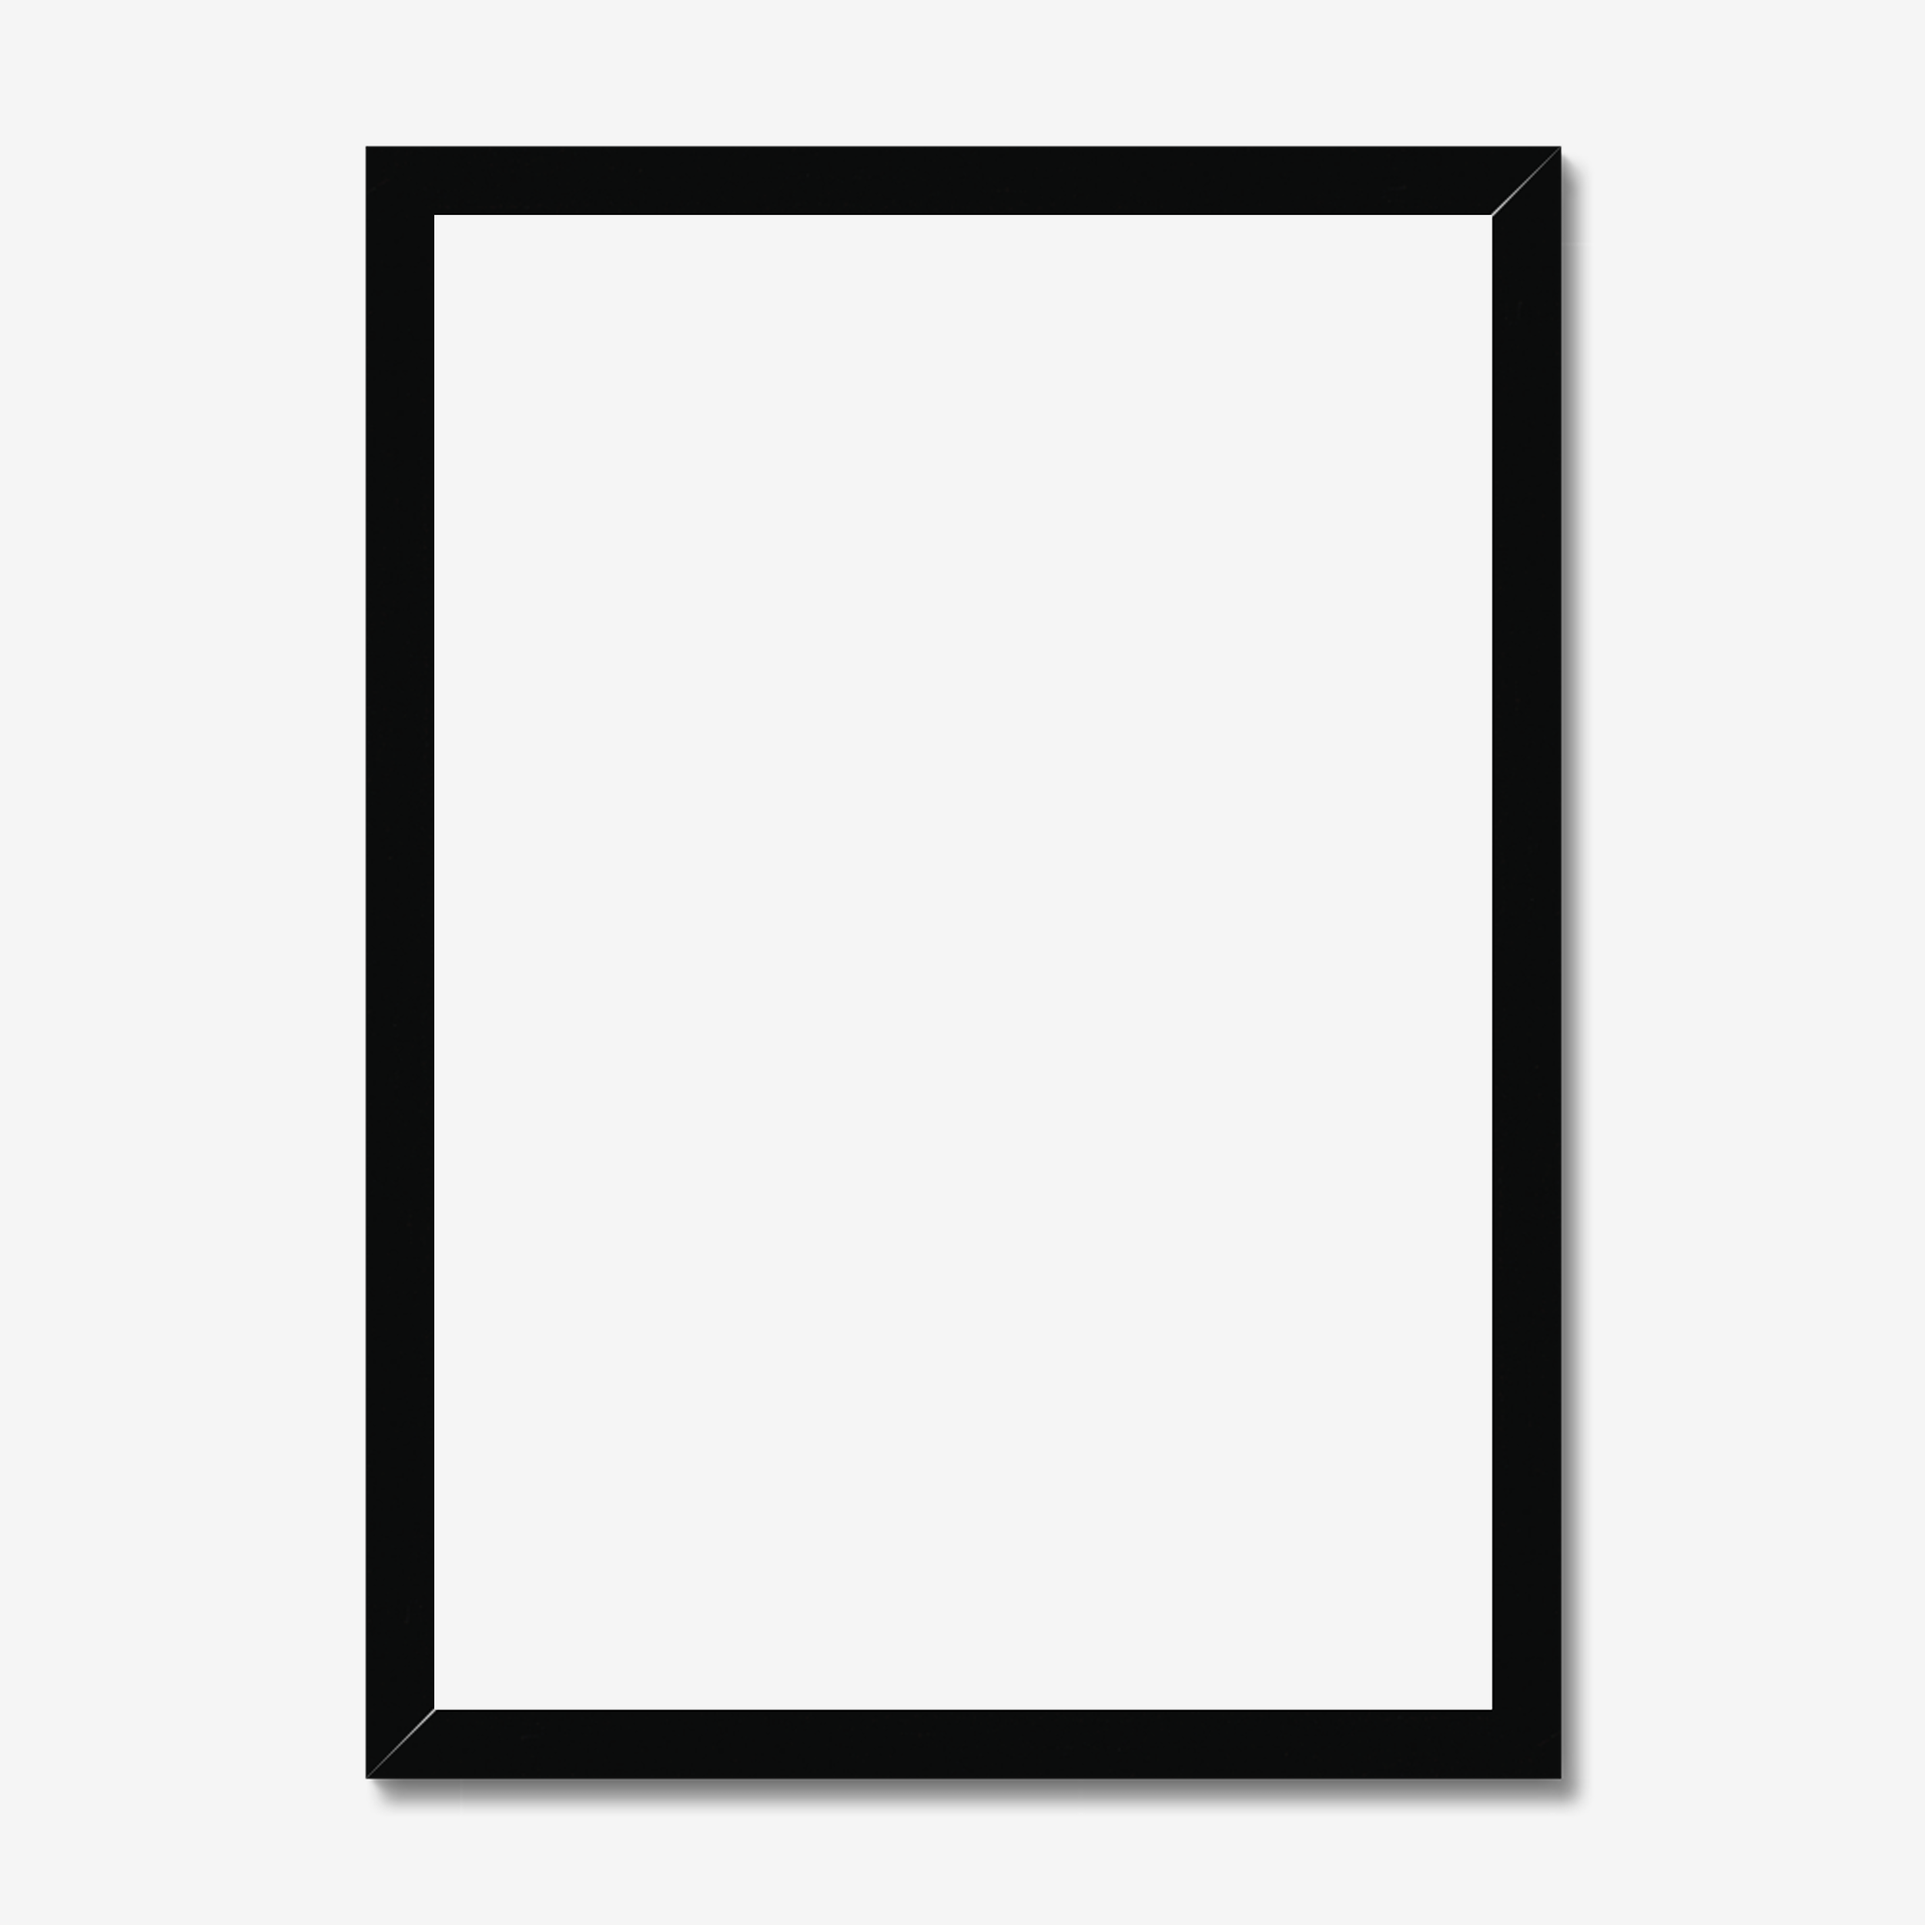
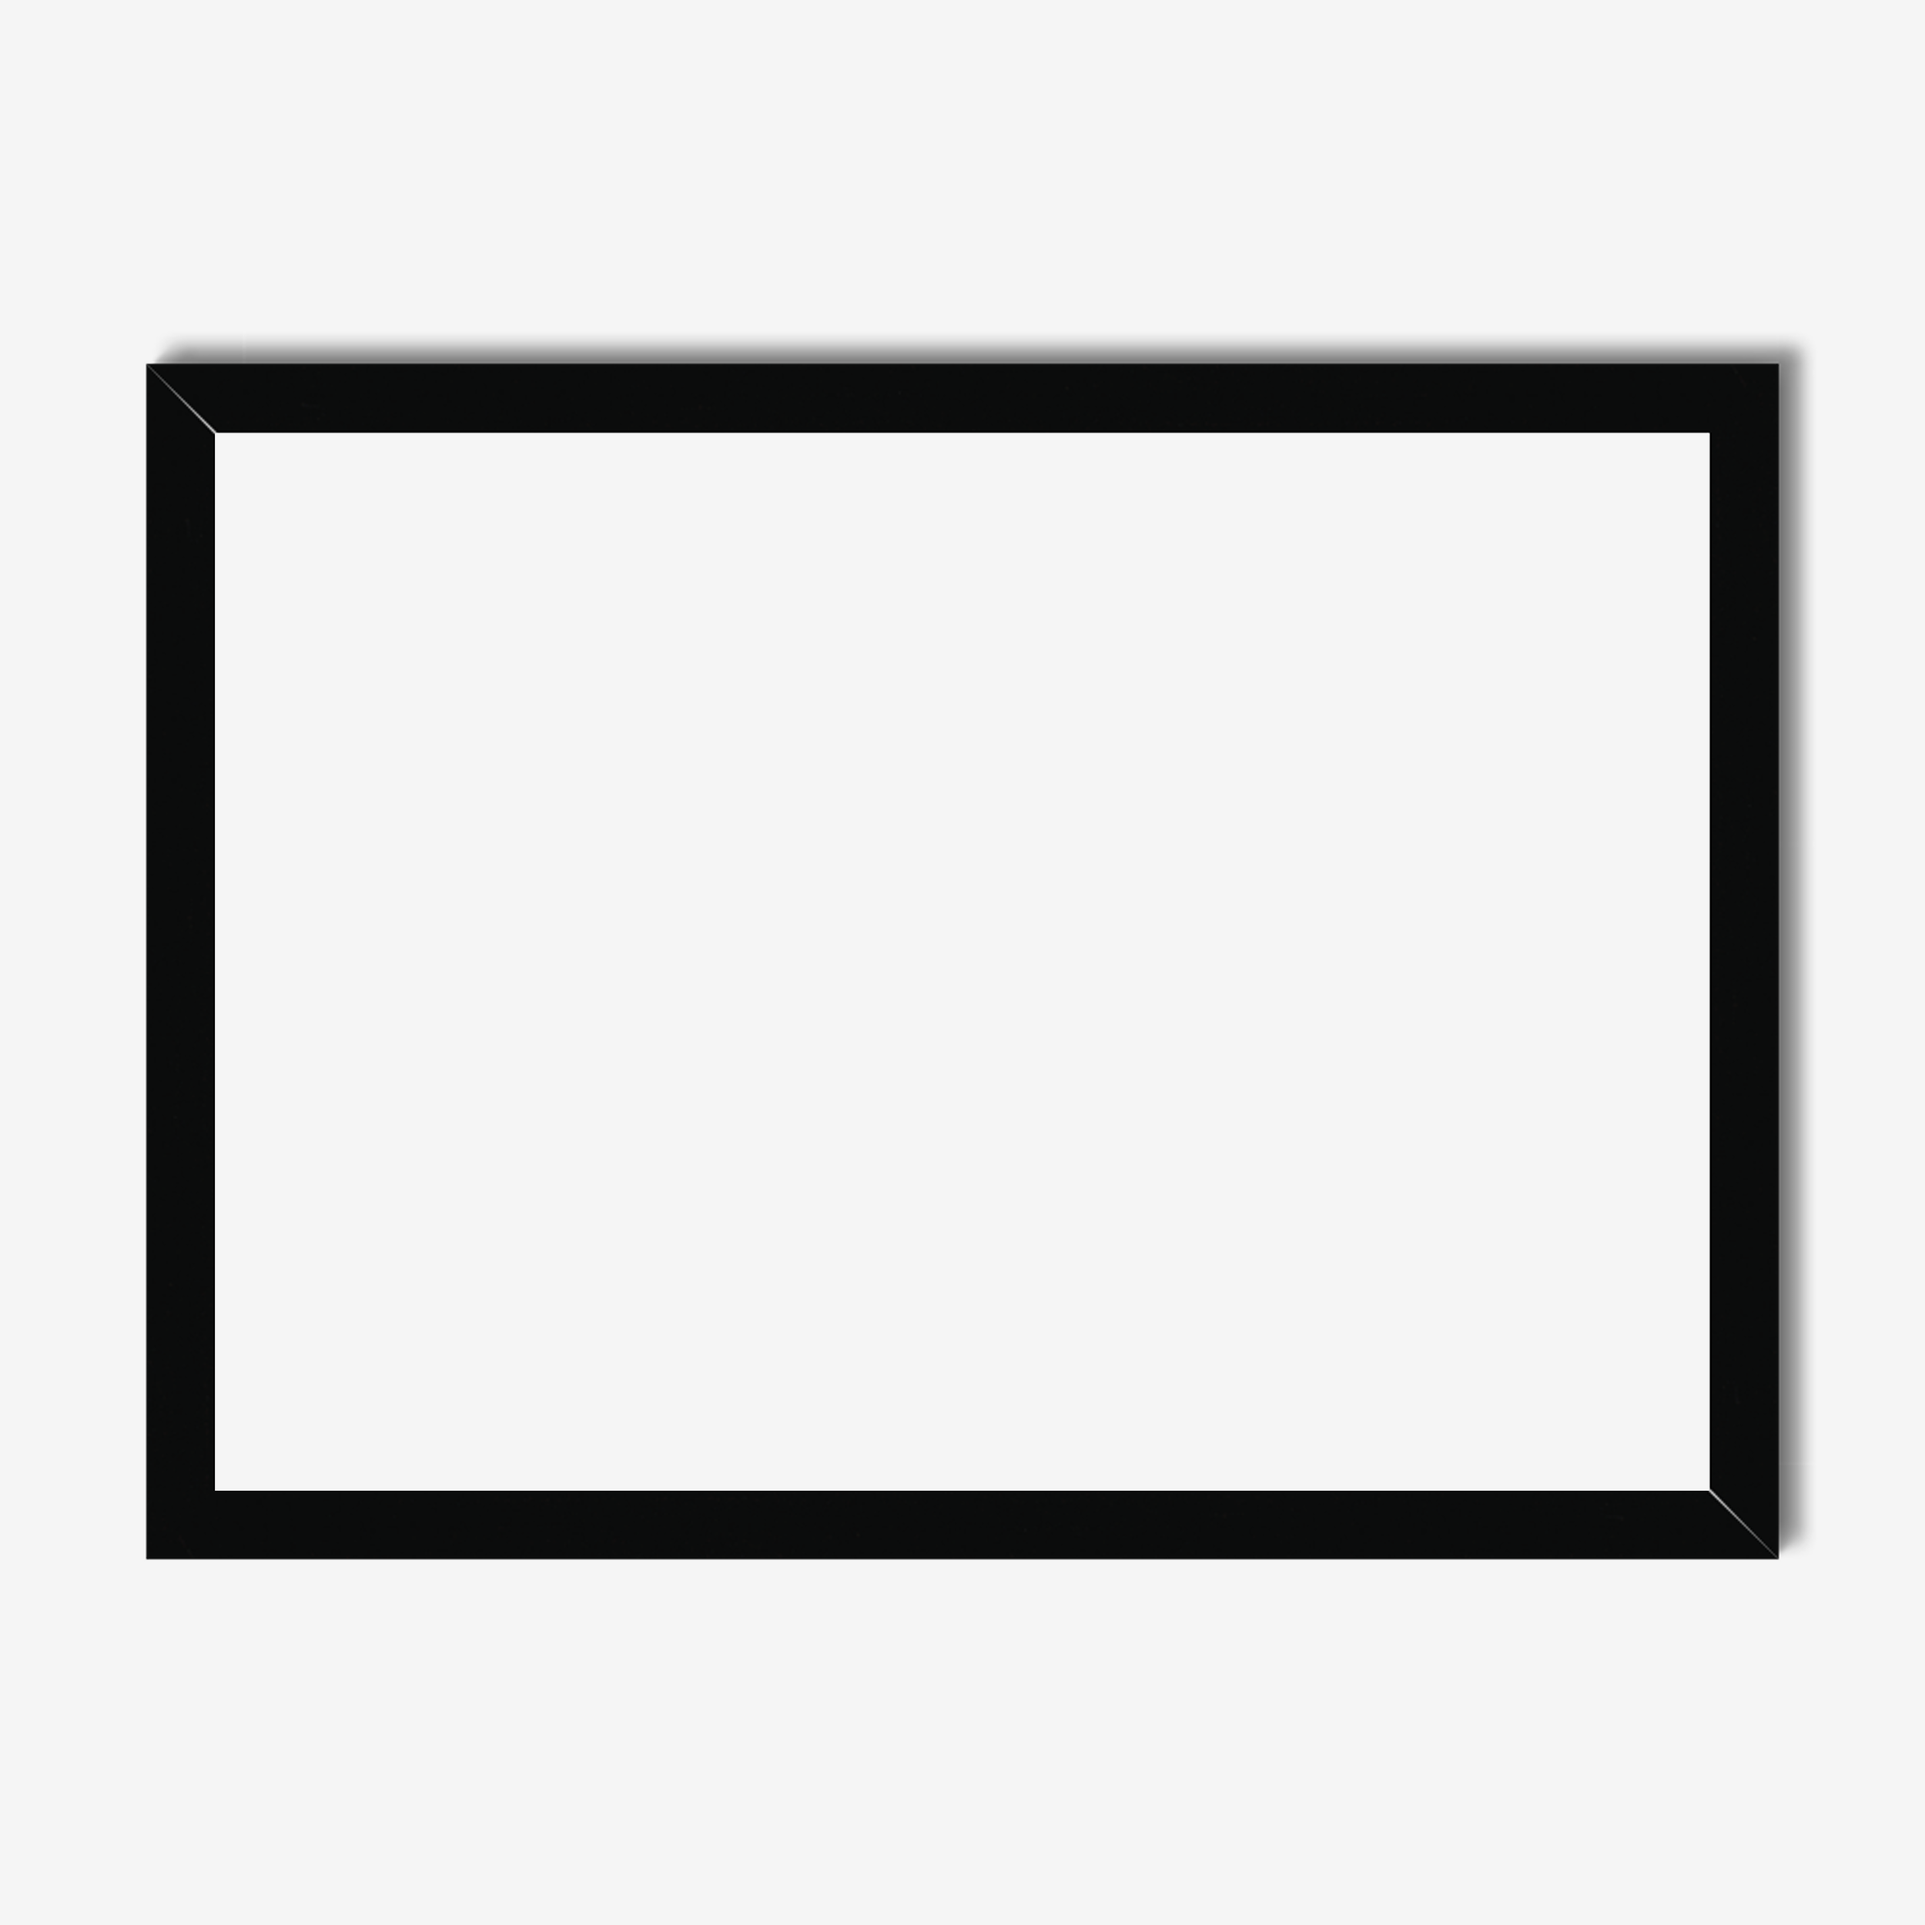
fix: spacing after VAT note + dynamic description per paper/frame type
- Add margin-bottom to .modal-price-note (space before ADD TO SELECTION)
- Add margin-top to .modal-desc-text (space after ADD TO SELECTION)
- Description now updates dynamically based on selected paper or frame type
  (Hahnemühle / Lustre for prints, frame-specific text for framed)
- collectif.html: full parity with index.html for all above
- Include corrected Black classic frame template + updated box frame images

Changed region(s): [[0.0624, 0.0624, 0.936, 0.936]]

diff --git a/index.html b/index.html
@@ -716,6 +716,7 @@
       font-size: 11px;
       color: var(--muted);
       margin-top: 3px;
+      margin-bottom: 20px;
     }
 
     /* Add btn */
@@ -740,6 +741,7 @@
       font-size: 12px;
       line-height: 1.85;
       color: var(--muted);
+      margin-top: 20px;
     }
 
     /* ── CART DRAWER ── */
@@ -1536,7 +1538,6 @@ function openModal(id) {
   document.getElementById('roomImg2').src = cur.img;
   setModalView();
   document.getElementById('mTitle').textContent = cur.name;
-  document.getElementById('mDesc').textContent = cur.desc;
   setFmt('print', true);
   renderSizes();
   updatePrice();
@@ -1578,6 +1579,7 @@ function setFmt(f, silent) {
   }
   if (!silent) updatePrice();
   updateImgNav();
+  updateDesc();
 }
 function openImgZoom() {
   // When framed is selected, zoom shows the server-rendered framed mockup
@@ -1613,6 +1615,7 @@ function setPaper(p) {
   };
   document.getElementById('paperDesc').textContent = descs[p] || '';
   syncFramePaperButtons();
+  updateDesc();
 }
 function syncFramePaperButtons() {
   const descs = {
@@ -1627,6 +1630,21 @@ function syncFramePaperButtons() {
   if (fpd)  fpd.textContent = descs[paperType] || '';
 }
 function setFramePaper(p) { setPaper(p); }
+
+// Dynamic print/frame description — updates whenever paper or frame selection changes
+const _PRINT_DESCS = {
+  hpr: 'Giclée print on Hahnemühle Photo Rag 308gsm. Cotton rag · Matte · Archival inks, rated 100+ years.',
+  pap: 'Giclée print on Lustre Photo Paper 240gsm. Satin finish · Vibrant, true-to-life colours.',
+};
+function updateDesc() {
+  const el = document.getElementById('mDesc');
+  if (!el) return;
+  if (fmt === 'framed') {
+    el.textContent = frameData[frameType]?.desc || '';
+  } else {
+    el.textContent = _PRINT_DESCS[paperType] || _PRINT_DESCS.hpr;
+  }
+}
 
 function renderMountColors() {
   const el = document.getElementById('mountSwatches');
@@ -1659,8 +1677,7 @@ function renderFrameTypes() {
     b.onclick = () => {
       frameType = key; frameColorIdx = 0; mountColor = 'Snow White';
       renderFrameTypes(); renderFrameColors(); renderMountColors(); updateMountVisibility();
-      applyFramePreview(); updatePrice();
-      // Pre-warm ALL colors for this frame type immediately on click
+      applyFramePreview(); updatePrice(); updateDesc();
       prewarmFrameMockups(key);
     };
     // Prefetch first color on hover so it's often ready when clicked

diff --git a/collectif.html b/collectif.html
@@ -622,6 +622,7 @@
       font-size: 11px;
       color: var(--muted);
       margin-top: 3px;
+      margin-bottom: 20px;
     }
 
     .btn-add {
@@ -645,6 +646,7 @@
       font-size: 12px;
       line-height: 1.85;
       color: var(--muted);
+      margin-top: 20px;
     }
 
     /* ── CART DRAWER ── */
@@ -1404,7 +1406,6 @@ function openModal(id) {
   document.getElementById('roomImg2').src = cur.img;
   setModalView();
   document.getElementById('mTitle').textContent = cur.name;
-  document.getElementById('mDesc').textContent = cur.desc;
   setFmt('print', true);
   renderSizes();
   updatePrice();
@@ -1446,6 +1447,7 @@ function setFmt(f, silent) {
   }
   if (!silent) updatePrice();
   updateImgNav();
+  updateDesc();
 }
 function openImgZoom() {
   // When framed is selected, zoom shows the server-rendered framed mockup
@@ -1481,6 +1483,7 @@ function setPaper(p) {
   };
   document.getElementById('paperDesc').textContent = descs[p] || '';
   syncFramePaperButtons();
+  updateDesc();
 }
 function syncFramePaperButtons() {
   const descs = {
@@ -1495,6 +1498,20 @@ function syncFramePaperButtons() {
   if (fpd)  fpd.textContent = descs[paperType] || '';
 }
 function setFramePaper(p) { setPaper(p); }
+
+const _PRINT_DESCS = {
+  hpr: 'Giclée print on Hahnemühle Photo Rag 308gsm. Cotton rag · Matte · Archival inks, rated 100+ years.',
+  pap: 'Giclée print on Lustre Photo Paper 240gsm. Satin finish · Vibrant, true-to-life colours.',
+};
+function updateDesc() {
+  const el = document.getElementById('mDesc');
+  if (!el) return;
+  if (fmt === 'framed') {
+    el.textContent = frameData[frameType]?.desc || '';
+  } else {
+    el.textContent = _PRINT_DESCS[paperType] || _PRINT_DESCS.hpr;
+  }
+}
 
 function renderMountColors() {
   const el = document.getElementById('mountSwatches');
@@ -1527,7 +1544,7 @@ function renderFrameTypes() {
     b.onclick = () => {
       frameType = key; frameColorIdx = 0; mountColor = 'Snow White';
       renderFrameTypes(); renderFrameColors(); renderMountColors(); updateMountVisibility();
-      applyFramePreview(); updatePrice();
+      applyFramePreview(); updatePrice(); updateDesc();
       prewarmFrameMockups(key);
     };
     b.onmouseenter = () => {
